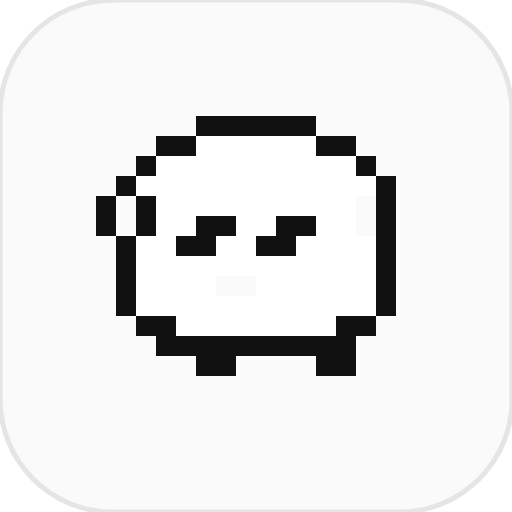
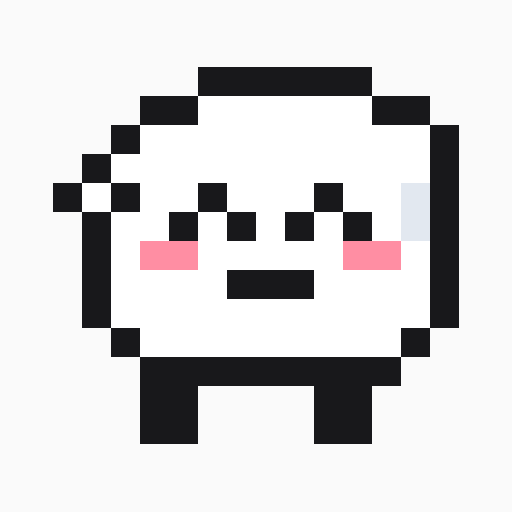
feat: 앱 아이콘 및 파비콘을 3단계 행복한 찰스로 교체 (정수 픽셀 스케일링 및 큼직한 화면 비율 적용)

Changed region(s): [[0.0938, 0.125, 0.9062, 0.875]]

diff --git a/index.html b/index.html
@@ -8,10 +8,10 @@
   <title>Charles</title>
 
   <!-- 말씀양 찰스 앱 아이콘 & Favicon -->
-  <link rel="icon" type="image/svg+xml" href="favicon.svg?v=3.2">
-  <link rel="alternate icon" type="image/png" href="favicon-32x32.png?v=3.2">
-  <link rel="apple-touch-icon" href="apple-touch-icon.png?v=3.2">
-  <link rel="manifest" href="manifest.json?v=3.2">
+  <link rel="icon" type="image/svg+xml" href="favicon.svg?v=3.3">
+  <link rel="alternate icon" type="image/png" href="favicon-32x32.png?v=3.3">
+  <link rel="apple-touch-icon" href="apple-touch-icon.png?v=3.3">
+  <link rel="manifest" href="manifest.json?v=3.3">
 
   <meta http-equiv="Cache-Control" content="no-cache, no-store, must-revalidate">
   <meta http-equiv="Pragma" content="no-cache">

diff --git a/admin.html b/admin.html
@@ -4,9 +4,9 @@
   <meta charset="UTF-8">
   <meta name="viewport" content="width=device-width, initial-scale=1.0">
   <title>Charles - 관리자 콘솔</title>
-  <link rel="icon" type="image/svg+xml" href="favicon.svg?v=3.2">
-  <link rel="alternate icon" type="image/png" href="favicon-32x32.png?v=3.2">
-  <link rel="apple-touch-icon" href="apple-touch-icon.png?v=3.2">
+  <link rel="icon" type="image/svg+xml" href="favicon.svg?v=3.3">
+  <link rel="alternate icon" type="image/png" href="favicon-32x32.png?v=3.3">
+  <link rel="apple-touch-icon" href="apple-touch-icon.png?v=3.3">
   <meta http-equiv="Cache-Control" content="no-cache, no-store, must-revalidate">
   <meta http-equiv="Pragma" content="no-cache">
   <meta http-equiv="Expires" content="0">
